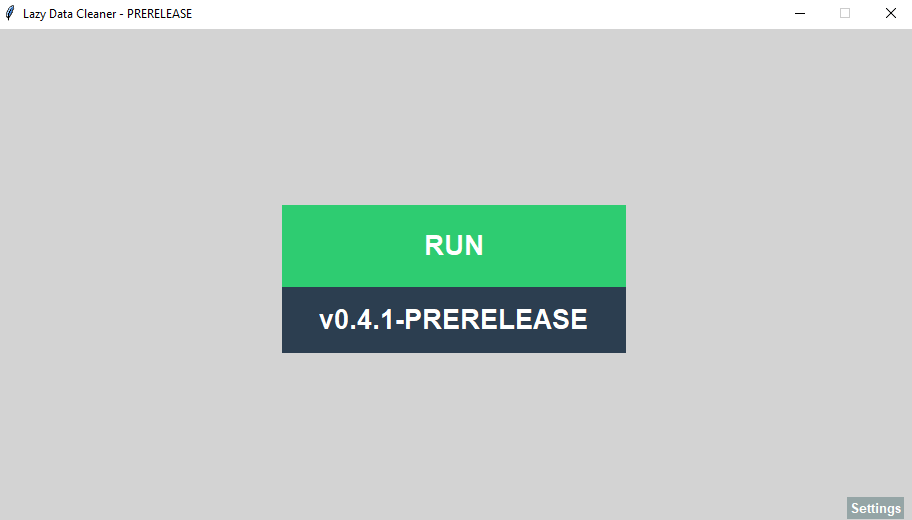
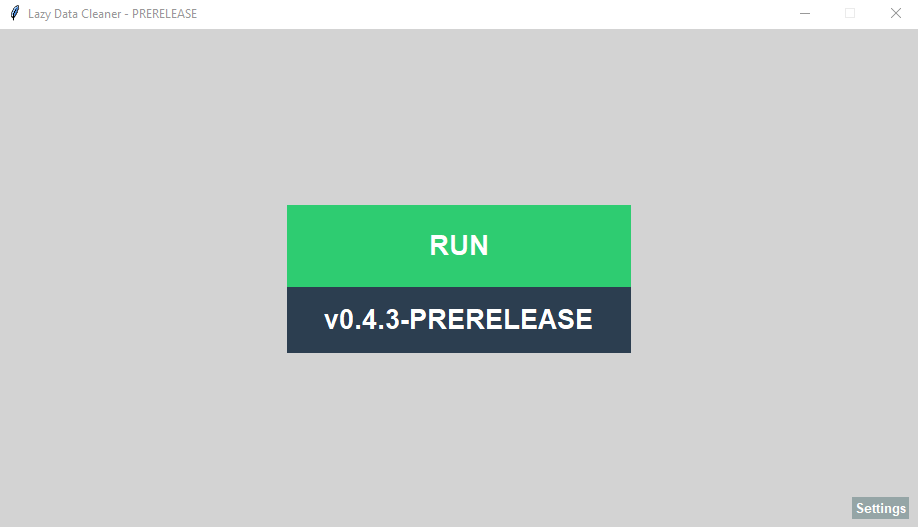
Latest

diff --git a/UI/display.py b/UI/display.py
@@ -49,7 +49,8 @@ class LazyDataCleaner():
         self.main_screen()
     
     def get_time(self):
-        return self.datetime.now().strftime("%H:%M:%S")
+        from datetime import datetime
+        return datetime.now().strftime("%H:%M:%S")
     
     def create_widgets(self):
         # Defualt Values For Buttons & Labels Size
@@ -381,7 +382,6 @@ class LazyDataCleaner():
                 self.mean = 0
                 self.customize_button_mean.config(bg="#3d0000")
             else:
-                self.get_time()
                 print(F.RED + f"[{self.get_time()}] Error In Selection Changing To False")
         elif value_1 == 2:
             if self.median == 0:
@@ -391,7 +391,6 @@ class LazyDataCleaner():
                 self.median = 0
                 self.customize_button_median.config(bg="#3d0000")
             else:
-                self.get_time()
                 print(F.RED + f"[{self.get_time()}] Error In Selection Changing To False")
         elif value_1 == 3:
             if self.mode == 0:
@@ -401,7 +400,6 @@ class LazyDataCleaner():
                 self.mode = 0
                 self.customize_button_mode.config(bg="#3d0000")
             else:
-                self.get_time()
                 print(F.RED + f"[{self.get_time()}] Error In Selection Changing To False")
         elif value_1 == 4:
             if self.duplicates == 0:
@@ -411,7 +409,6 @@ class LazyDataCleaner():
                 self.duplicates = 0
                 self.customize_button_duplicates.config(bg="#3d0000")
             else:
-                self.get_time()
                 print(F.RED + f"[{self.get_time()}] Error In Selection Changing To False")
         elif value_1 == 5:
             if self.outlier == 0:
@@ -421,7 +418,6 @@ class LazyDataCleaner():
                 self.outlier = 0
                 self.customize_button_outlier.config(bg="#3d0000")
             else:
-                self.get_time()
                 print(F.RED + f"[{self.get_time()}] Error In Selection Changing To False")
         elif value_1 == 6:
             if self.standardizations == 0:
@@ -431,7 +427,6 @@ class LazyDataCleaner():
                 self.standardizations = 0
                 self.customize_button_standardization.config(bg="#3d0000")
             else:
-                self.get_time()
                 print(F.RED + f"[{self.get_time()}] Error In Selection Changing To False")
         elif value_1 == 7:
             if self.force_csv == 0:
@@ -441,7 +436,6 @@ class LazyDataCleaner():
                 self.force_csv = 0
                 self.force_csv_button.config(bg="#3d0000")
             else:
-                self.get_time()
                 print(F.RED + f"[{self.get_time()}] Error In Selection Changing To False")
 
         # Update The Screen
@@ -568,9 +562,8 @@ class LazyDataCleaner():
 
     def main_function(self, preset):
         # Importing Libraries
-        from core.processing import process_files_csv
+        from core.processing import process_files
         from colorama import Fore as F, init
-        from datetime import datetime
         from pathlib import Path
         from core.presets import default, AI, bussinses, streaming
         from core.functions import fill_mean, fill_median, fill_mode, duplicate, outlier, standardization
@@ -610,56 +603,59 @@ class LazyDataCleaner():
 
         # Processing files
         if self.force_csv == 0:
-            success_process_csv, message_process_csv = process_files_csv()
+            success_process_csv, message_process_csv = process_files()
         if self.force_csv == 1:
-            success_process_csv, message_process_csv = process_files_csv(True)
+            success_process_csv, message_process_csv = process_files(True)
         step_done()
 
         # Getting Paths
         base_directory = Path(__file__).resolve().parent.parent
         upload_directory = base_directory / "Data"
-        data_csv = list(upload_directory.glob("*.csv"))
+        data = []
+        data.extend(upload_directory.glob("*.csv"))                 ## Add csv files to list
+        data.extend(upload_directory.glob("*.xlsx"))                ## Add xlsx files to list
+        data.extend(upload_directory.glob("*.xls"))                 ## Add xls files to list
 
         # If no errors
         if success_process_csv:
 
             # Preset Selected
             if preset == 1:
-                default(data_csv)
+                default(data)
                 step_done()
             elif preset == 2:
-                AI(data_csv)
+                AI(data)
                 step_done()
             elif preset == 3:
-                bussinses(data_csv)
+                bussinses(data)
                 step_done()
             elif preset == 4:
-                streaming(data_csv)
+                streaming(data)
                 step_done()
             elif preset == 5:
                 if self.mean == 1:
-                    fill_mean(True, 5, data_csv)
+                    fill_mean(True, 5, data)
                     step_done()
                 if self.median == 1:
-                    fill_median(True, 5, data_csv)
+                    fill_median(True, 5, data)
                     step_done()
                 if self.mode == 1:
-                    fill_mode(True, 5, data_csv)
+                    fill_mode(True, 5, data)
                     step_done()
                 if self.duplicates == 1:
-                    duplicate(data_csv)
+                    duplicate(data)
                     step_done()
                 if self.outlier == 1:
-                    outlier(data_csv)
+                    outlier(data)
                     step_done()
                 if self.standardizations == 1:
-                    standardization(data_csv)
+                    standardization(data)
                     step_done()
                 
             else:
                 self.get_time()
                 print(F.RED + f"[{self.get_time()}] Error In Presets Selection... Switching to Defualt")
-                default(data_csv)
+                default(data)
                 self.step = 1
                 step_done()
 

diff --git a/core/functions.py b/core/functions.py
@@ -4,7 +4,7 @@ from datetime import datetime
 from colorama import init, Fore as F
 import numpy as np
 from scipy import stats
-from read_and_write import load_file, save_file
+from .read_and_write import load_file, save_file
 
 # Get Current Time
 current_time = datetime.now().strftime("%H:%M:%S")
@@ -15,8 +15,8 @@ def get_time():
     return datetime.now().strftime("%H:%M:%S")
 
 # Standardization
-def standardization(data_csv):
-    for file in data_csv:
+def standardization(data):
+    for file in data:
 
         # Read file
         df = load_file(file)
@@ -34,8 +34,8 @@ def standardization(data_csv):
         print(F.GREEN + f"[{get_time()}] Applied standardization for '{file}'.")
 
 # Outlier
-def outlier(data_csv):
-    for file in data_csv:
+def outlier(data):
+    for file in data:
 
         # Read file
         df = load_file(file)
@@ -57,8 +57,8 @@ def outlier(data_csv):
         print(F.GREEN + f"[{get_time()}] Removed outliers for '{file}'.")
 
 # Duplicates
-def duplicate(data_csv):
-    for file in data_csv:
+def duplicate(data):
+    for file in data:
 
         df = load_file(file)
 
@@ -96,8 +96,8 @@ def duplicate(data_csv):
         print(F.GREEN + f"[{get_time()}] Finished Removing Duplicates")
 
 # Fill in missing data with mean
-def fill_mean(delete, na_threshold, data_csv):
-    for file in data_csv:
+def fill_mean(delete, na_threshold, data):
+    for file in data:
 
         # Read file
         df = load_file(file)
@@ -128,8 +128,8 @@ def fill_mean(delete, na_threshold, data_csv):
         save_file(df, file)
 
 # Fill in missing data with median
-def fill_median(delete, na_threshold, data_csv):
-    for file in data_csv:
+def fill_median(delete, na_threshold, data):
+    for file in data:
 
         # Read File
         df = load_file(file)
@@ -160,11 +160,11 @@ def fill_median(delete, na_threshold, data_csv):
         save_file(df, file)
 
 # Fill in missing data with mode
-def fill_mode(delete, na_threshold, data_csv):
-    for file in data_csv:
+def fill_mode(delete, na_threshold, data):
+    for file in data:
 
         # Read File
-        df = save_file(file)
+        df = load_file(file)
 
         # Get categorical columns
         categorical_columns = df.select_dtypes(include=['object', 'category']).columns

diff --git a/core/processing.py b/core/processing.py
@@ -5,7 +5,7 @@ from colorama import Fore as F, init
 from datetime import datetime
 from word2number import w2n
 import numpy as np
-from read_and_write import load_file, save_file
+from .read_and_write import load_file, save_file
 
 # Reset Colorama
 init(autoreset=True)

diff --git a/core/presets.py b/core/presets.py
@@ -1,5 +1,5 @@
 # Importing Libraries
-from .functions import fill_mean, fill_median, fill_mode, outlier, duplicate, standardization
+from .functions import fill_median, fill_mode, outlier, duplicate, standardization
 
 # Default preset
 def default(data_csv):
